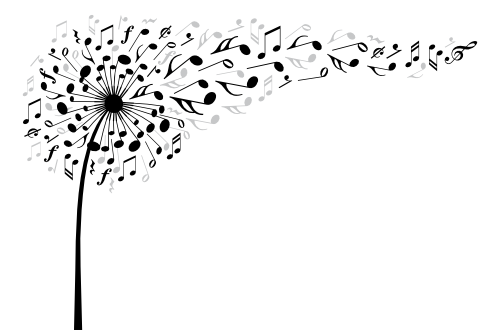
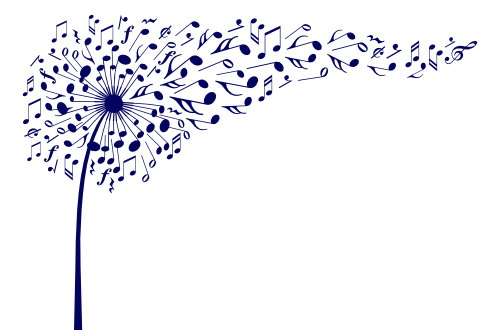
Changed img 1 for the radio site; added all the images to the radio site; removed unnecessary bullet points on radio and 61 days of art and fun page

Changed region(s): [[0.03, 0.0303, 0.96, 1.0]]

diff --git a/pages/radio-index.html b/pages/radio-index.html
@@ -3,7 +3,7 @@
 
 <head>
   <meta charset="utf-8">
-  <title>Radio Show Host</title>
+  <title>Hosting a Radio Show</title>
   <meta name="description" content="">
   <meta name="viewport" content="width=device-width, initial-scale=1">
 
@@ -45,7 +45,7 @@
   <header>
     <!--header image-->
     <div>
-      <img src="" alt="" class="d-block w-100">
+      <img src="../img/radio-header.jpg" alt="Dark blue musical notes on lilac background." class="d-block w-100">
     </div>
    
     <!--navigation pane that sticks-->
@@ -63,7 +63,7 @@
   </header>
 
   <main class="container-fluid"><br>
-    <h1>Radio Show Host</h1>
+    <h1>Hosting a Radio Show</h1>
 
     <p>
        In the winter semester in 2012 I was the producer of a talk show on University Radio Falmer. Producers were a new category at the student radio club and the 
@@ -82,7 +82,7 @@
     <div class="practiced">   
       <div class="practiced-list">
         <div>
-          <img src="" alt="">
+          <img src="../img/radio1.png" alt="A dandelion made of musical notes that are blown away in the wind.">
         </div>
         <div class="practiced-list-text">
           <h2>I practiced:</h2>
@@ -100,7 +100,7 @@
     <div class="learned">
       <div class="learned-list">
         <div>
-          <img src="" alt="">
+          <img src="../img/radio2.jpg" alt="A picture of me sitting in the studio of University Radio Falmer, giving the camera a thumbs up.">
         </div>
         <div class="learned-list-text">
           <h2>I learned:</h2>
@@ -109,7 +109,7 @@
               <li>that it's a bad idea to make structural changes to an already existing and functioning team without explaining to them why the 
                   changes are necessary
               </li>
-              <li>always (!!!) check the quality of your output! Like, you know, the volume of your mics...</li>
+              <li>always (!!!) check the quality of your output! Like, you know, the volume of your mics.</li>
               <li></li>
               <li></li>
               <li></li>

diff --git a/pages/projects-index.html b/pages/projects-index.html
@@ -318,15 +318,13 @@
       <!--Hosting my own Radio show-->
       <div class="individual-cards shadow p-4 mb-4 bg-white">
         <div class="card border border-0" style="width:280px">
-          <img class="card-img-top" src="../img/jj-art-fun-tn.jpg" alt="Blue writing in 3d: 'Good morning!', quoth the Quokka. On the right is an image of a 
-          Quokka (a small brown marsupial that looks like a large rat and lives on Rottnest Island, Australia). The Quokka smiles into the camera. The image has 
-          a dark blue frame.">
+          <img class="card-img-top" src="../img/radio-tn.jpg" alt="Dark blue musical notes on lilac background.">
           <div class="card-body">
-            <h4 class="card-title"><a href="jj-art-fun-index.html" target="_blank">Radio Show Host</a></h4>
+            <h4 class="card-title"><a href="radio-index.html" target="_blank">Hosting a Radio Show</a></h4>
             <p class="card-text">
               For one semester I played a selection of top ten songs from different countries.
             </p>
-            <button class="card-button"><a href="jj-art-fun-index.html" target="_blank">More</a></button>
+            <button class="card-button"><a href="radio-index.html" target="_blank">More</a></button>
           </div>
         </div>
       </div>

diff --git a/pages/jj-art-fun-index.html b/pages/jj-art-fun-index.html
@@ -86,7 +86,7 @@
           <h2>I practiced:</h2>
           <ul>
               <li>scheduling content creation</li>
-              <li>creating something new every day</li>
+              <li>following my natural rhythm when I create</li>
               <li>monitoring my output</li>
               <li>Affinity Designer and Photo</li>
               <li>Canva</li>
@@ -106,7 +106,7 @@
           <h2>I learned:</h2>
           <ul>
               <li>how to make gifs using images and animations in Canva</li>
-              <li></li>
+              <li>I am a sprinter, meaning I prefer to create in bulk</li>
               <li></li>
               <li></li>
               <li></li>
